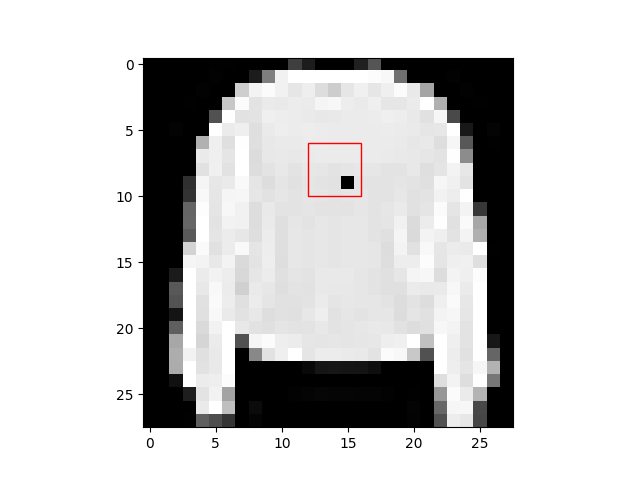
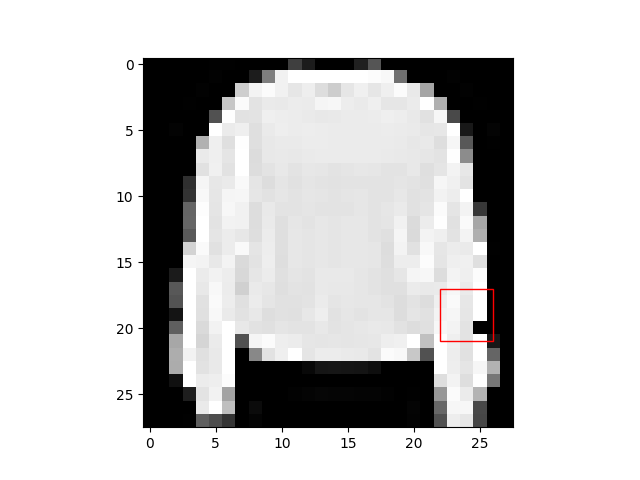
fixed image colours!!!

Changed region(s): [[0.4688, 0.2812, 0.5938, 0.4375], [0.6875, 0.5938, 0.7812, 0.7188]]

diff --git a/data_loader/__init__.py b/data_loader/__init__.py
@@ -112,12 +112,12 @@ if __name__ == '__main__':
 
         fig_wind = plt.figure()
         ax_wind = fig_wind.add_subplot(111)
-        ax_wind.imshow(new_window_values, cmap=plt.cm.gray)
+        ax_wind.imshow(new_window_values, cmap=plt.cm.gray, vmin=0, vmax=1)
         fig_wind.savefig(f'./images/window_{idx}.png')
 
         fig = plt.figure()
         ax = fig.add_subplot(111)
         rect = patches.Rectangle((cropX-1, cropY-1),4,4,linewidth=1,edgecolor='r',facecolor='none')
         ax.add_patch(rect)
-        ax.imshow(source, cmap=plt.cm.gray)
+        ax.imshow(source, cmap=plt.cm.gray, vmin=0, vmax=1)
         fig.savefig(f'./images/full_{idx}.png')
